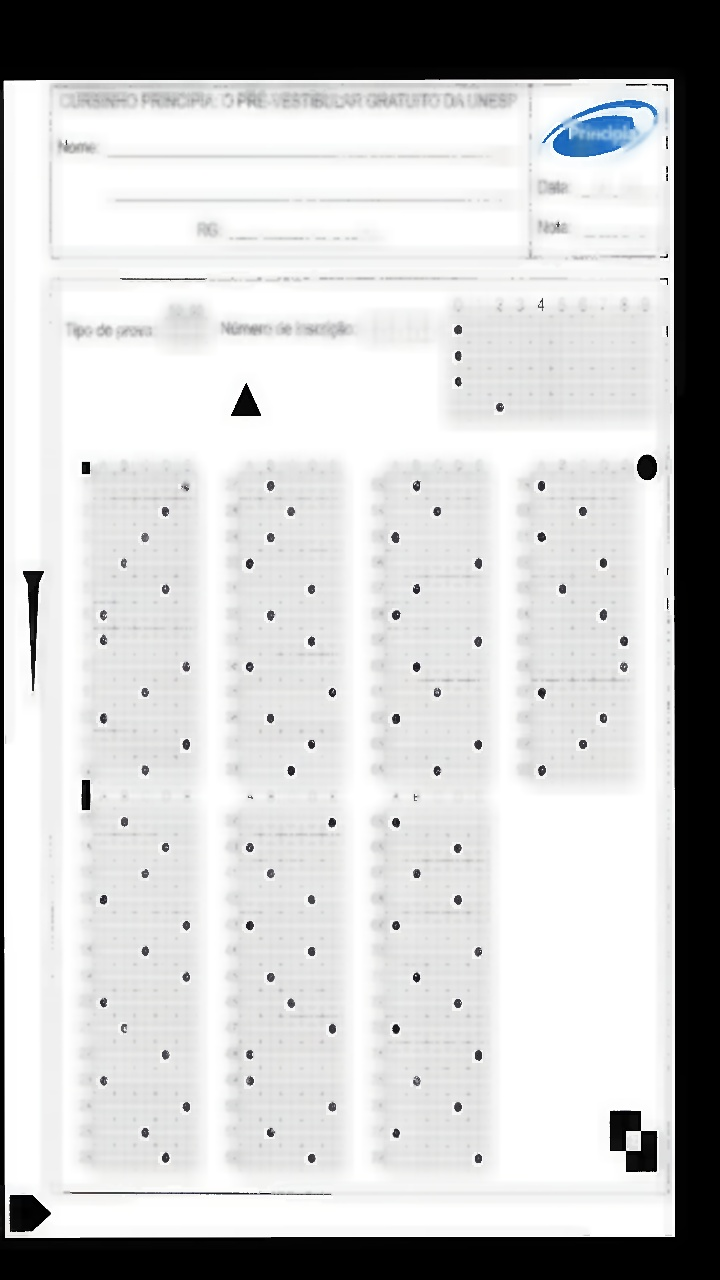
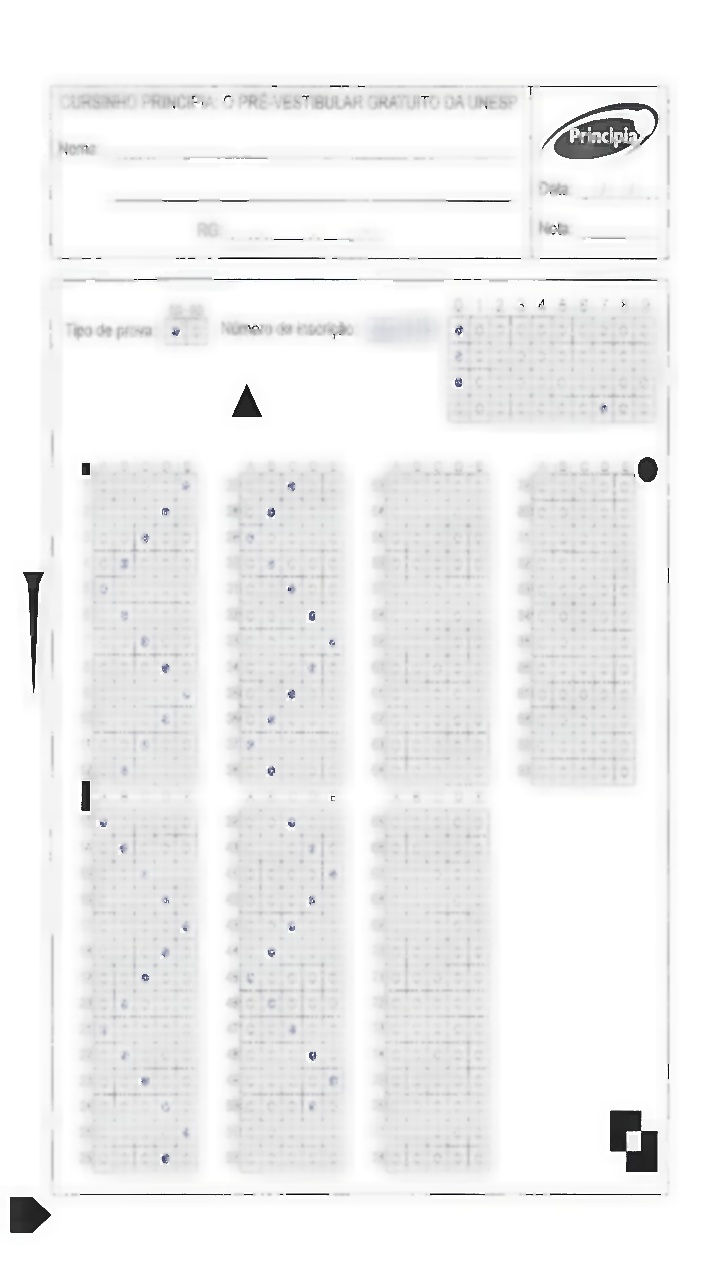
Adicionado pasta para visualizar o blurr nas fotos corrigidas. Problema: Preenchimento de caneta azul ou caneta preta fraca faz com que o codigo bug

diff --git a/respostas.py b/respostas.py
@@ -34,7 +34,7 @@ class Respostas:
                 # calculate x,y coordinate of center
                 cX = int(M["m10"] / M["m00"])
                 cY = int(M["m01"] / M["m00"])
-                cv2.drawContours(img, c, -1, (0,255,0), 3)
+                #cv2.drawContours(img, c, -1, (0,255,0), 3)
 
                 #Compare the central point to the Xo value of every letter and question number
                 if(cX<=760 or cY>=625):
@@ -65,7 +65,7 @@ class Respostas:
 
                                     listRet.append(letra)
                                     listNumbers.append(numero)
-                                    cv2.putText(img, numero+' '+letra, (cX - 25, cY),cv2.FONT_HERSHEY_SIMPLEX, 0.5, (0, 0, 255), 1)
+                                    cv2.putText(img, numero+' '+letra, (cX - 25, cY),cv2.FONT_HERSHEY_SIMPLEX, 0.5, (0, 0, 255), 2)
                                     cv2.drawContours(img, c, -1, (0,255,0), 1)
                 
                 
@@ -74,7 +74,7 @@ class Respostas:
                         for j in range(0,4):
                             if(cY >= RAy[j][0] and cY <= RAy[j][1]):
                                 listRA.append(str(x))
-                                cv2.putText(img, str(x), (cX - 25, cY),cv2.FONT_HERSHEY_SIMPLEX, 0.5, (0, 0, 255), 1)
+                                cv2.putText(img, str(x), (cX - 25, cY),cv2.FONT_HERSHEY_SIMPLEX, 0.5, (0, 0, 255), 2)
                                 cv2.drawContours(img, c, -1, (0,255,0), 1)
 
         #print(listRet)

diff --git a/Image.py b/Image.py
@@ -8,6 +8,7 @@ class Image:
         self.base = self.resize(self.base)
         self.MAX_MATCHES = 5000
         self.GOOD_MATCH_PERCENT = 0.05
+        self.test_number = 0
 
     #Função para carregar a imagem
     def loadImage(self, gabaritoPath):
@@ -61,14 +62,16 @@ class Image:
 
     #Função para determinar os contornos do gabarito
     def get_contours(self, aligned_image):
-        blurred = cv2.pyrMeanShiftFiltering(aligned_image,10,150)
+        blurred = cv2.pyrMeanShiftFiltering(aligned_image,10,125)
         gray = cv2.cvtColor(blurred,cv2.COLOR_BGR2GRAY)
         ret, threshold = cv2.threshold(gray,0,255,cv2.THRESH_BINARY+cv2.THRESH_OTSU)
         contours,_ = cv2.findContours(threshold,cv2.RETR_LIST,cv2.CHAIN_APPROX_NONE)
         # cv2.imshow('aff', blurred)
         # cv2.waitKey()
         #itKey()
-        cv2.imwrite('ImBlurr.jpeg', blurred)
+        #cv2.imwrite('ImBlurr.jpeg', blurred)
+        self.test_number += 1 
+        cv2.imwrite('ProvasCorrigidasBlurr/blurred'+str(self.test_number)+'.jpeg', blurred)
         
         
         return contours
